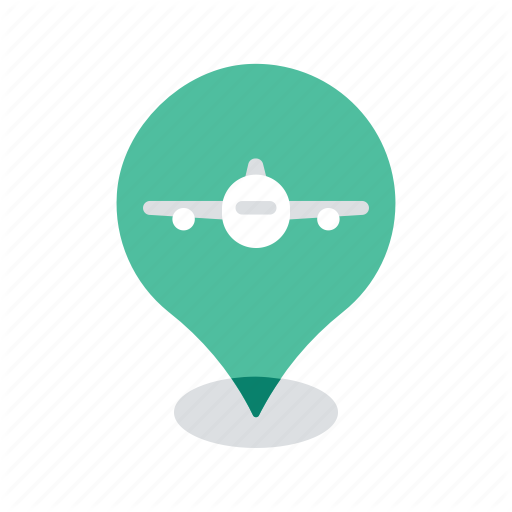
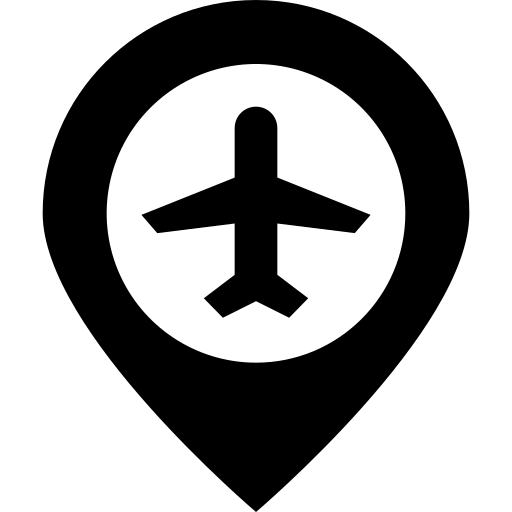
added images for planes

diff --git a/FlightControlWeb/wwwroot/js/TableScripts.js b/FlightControlWeb/wwwroot/js/TableScripts.js
@@ -77,13 +77,13 @@ setInterval(
 
 function showOnMap(flight) {
     let icon2 = {
-        url: "../images/pin.png", // url
-        scaledSize: new google.maps.Size(50, 50), // scaled size
+        url: "../images/Travel.png", // url
+        scaledSize: new google.maps.Size(40, 40), // scaled size
             origin: new google.maps.Point(0, 0), // origin
     }
     let icon = {
         url: "../images/plane.png", // url
-        scaledSize: new google.maps.Size(50, 50), // scaled size
+        scaledSize: new google.maps.Size(35, 35), // scaled size
         origin: new google.maps.Point(0, 0), // origin
     };
     let posi = { lat: flight.latitude, lng: flight.longitude };
@@ -257,8 +257,8 @@ function changeMarker(marker, flight) {
     });
     delete marker;*/
     markers[x].setIcon({
-        url: "../images/pin.png", // url
-        scaledSize: new google.maps.Size(50, 50), // scaled size
+        url: "../images/Travel.png", // url
+        scaledSize: new google.maps.Size(40, 40), // scaled size
         origin: new google.maps.Point(0, 0), // origin
     });
 }
@@ -296,7 +296,7 @@ function resetIcon(flight) {
     delete marker;*/
     markers[x].setIcon({
         url: "../images/plane.png", // url
-        scaledSize: new google.maps.Size(50, 50), // scaled size
+        scaledSize: new google.maps.Size(35, 35), // scaled size
         origin: new google.maps.Point(0, 0), // origin
     });
 }
